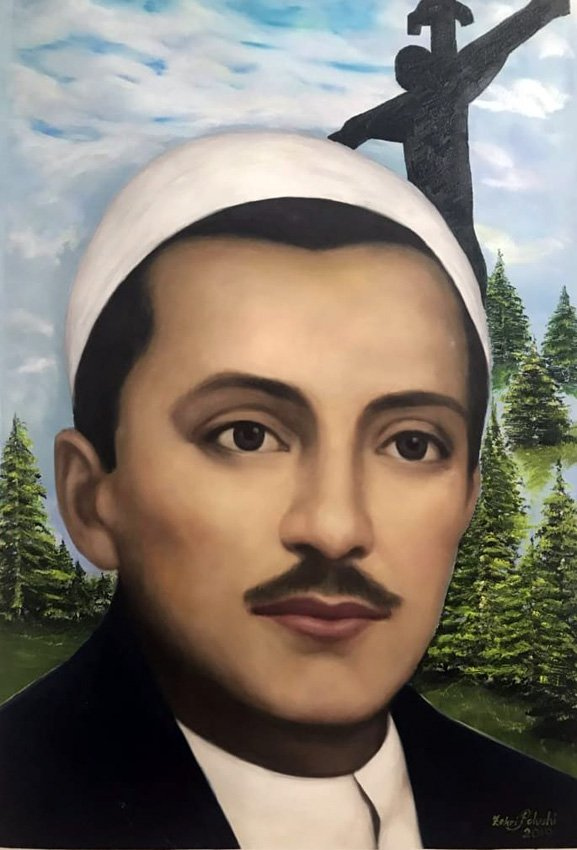
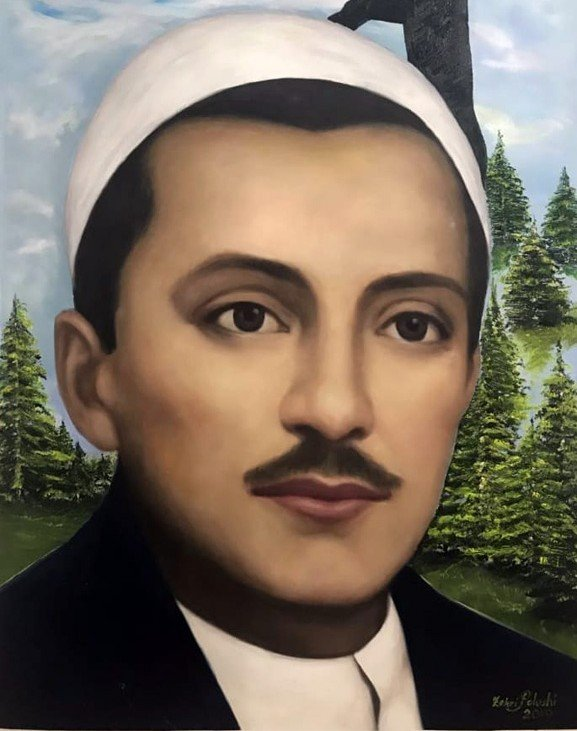
Fran Mirakaj (198): foto recortada, centrada en el rostro (#70)
Claude-Session: https://claude.ai/code/session_013jQWy2jms2utjr6qbVvrZF

diff --git a/fr/m/198/index.html b/fr/m/198/index.html
@@ -14,7 +14,7 @@
 <meta property="og:description" content="Commerçant">
 <meta property="og:image" content="https://santidadmatrimonial.org/img/198.jpg">
 <meta property="og:image:width" content="577">
-<meta property="og:image:height" content="850">
+<meta property="og:image:height" content="731">
 <meta property="og:image:alt" content="Fran Mirakaj et Prenda Alija Kamerin">
 <meta name="twitter:card" content="summary_large_image">
 <link rel="icon" href="../../../favicon.svg" type="image/svg+xml">
@@ -22,7 +22,7 @@
 <style>body{font-family:system-ui,sans-serif;max-width:520px;margin:40px auto;padding:0 16px;text-align:center;color:#2b2b2b}img{max-width:100%;border-radius:12px}a{color:#26467a;font-weight:700}</style>
 </head>
 <body>
-<img src="https://santidadmatrimonial.org/img/198.jpg" alt="Fran Mirakaj et Prenda Alija Kamerin" width="577" height="850">
+<img src="https://santidadmatrimonial.org/img/198.jpg" alt="Fran Mirakaj et Prenda Alija Kamerin" width="577" height="731">
 <h1>Bienheureux Fran Mirakaj et Prenda Alija Kamerin</h1>
 <p>Commerçant</p>
 <p><a href="../../#m198">Voir la fiche</a></p>

diff --git a/en/m/198/index.html b/en/m/198/index.html
@@ -14,7 +14,7 @@
 <meta property="og:description" content="Merchant">
 <meta property="og:image" content="https://santidadmatrimonial.org/img/198.jpg">
 <meta property="og:image:width" content="577">
-<meta property="og:image:height" content="850">
+<meta property="og:image:height" content="731">
 <meta property="og:image:alt" content="Fran Mirakaj &amp; Prenda Alija Kamerin">
 <meta name="twitter:card" content="summary_large_image">
 <link rel="icon" href="../../../favicon.svg" type="image/svg+xml">
@@ -22,7 +22,7 @@
 <style>body{font-family:system-ui,sans-serif;max-width:520px;margin:40px auto;padding:0 16px;text-align:center;color:#2b2b2b}img{max-width:100%;border-radius:12px}a{color:#26467a;font-weight:700}</style>
 </head>
 <body>
-<img src="https://santidadmatrimonial.org/img/198.jpg" alt="Fran Mirakaj &amp; Prenda Alija Kamerin" width="577" height="850">
+<img src="https://santidadmatrimonial.org/img/198.jpg" alt="Fran Mirakaj &amp; Prenda Alija Kamerin" width="577" height="731">
 <h1>Bl. Fran Mirakaj &amp; Prenda Alija Kamerin</h1>
 <p>Merchant</p>
 <p><a href="../../#m198">See the couple</a></p>

diff --git a/it/m/198/index.html b/it/m/198/index.html
@@ -14,7 +14,7 @@
 <meta property="og:description" content="Commerciante">
 <meta property="og:image" content="https://santidadmatrimonial.org/img/198.jpg">
 <meta property="og:image:width" content="577">
-<meta property="og:image:height" content="850">
+<meta property="og:image:height" content="731">
 <meta property="og:image:alt" content="Fran Mirakaj e Prenda Alija Kamerin">
 <meta name="twitter:card" content="summary_large_image">
 <link rel="icon" href="../../../favicon.svg" type="image/svg+xml">
@@ -22,7 +22,7 @@
 <style>body{font-family:system-ui,sans-serif;max-width:520px;margin:40px auto;padding:0 16px;text-align:center;color:#2b2b2b}img{max-width:100%;border-radius:12px}a{color:#26467a;font-weight:700}</style>
 </head>
 <body>
-<img src="https://santidadmatrimonial.org/img/198.jpg" alt="Fran Mirakaj e Prenda Alija Kamerin" width="577" height="850">
+<img src="https://santidadmatrimonial.org/img/198.jpg" alt="Fran Mirakaj e Prenda Alija Kamerin" width="577" height="731">
 <h1>Beato Fran Mirakaj e Prenda Alija Kamerin</h1>
 <p>Commerciante</p>
 <p><a href="../../#m198">Vedi la scheda</a></p>

diff --git a/pt/m/198/index.html b/pt/m/198/index.html
@@ -14,7 +14,7 @@
 <meta property="og:description" content="Comerciante">
 <meta property="og:image" content="https://santidadmatrimonial.org/img/198.jpg">
 <meta property="og:image:width" content="577">
-<meta property="og:image:height" content="850">
+<meta property="og:image:height" content="731">
 <meta property="og:image:alt" content="Fran Mirakaj e Prenda Alija Kamerin">
 <meta name="twitter:card" content="summary_large_image">
 <link rel="icon" href="../../../favicon.svg" type="image/svg+xml">
@@ -22,7 +22,7 @@
 <style>body{font-family:system-ui,sans-serif;max-width:520px;margin:40px auto;padding:0 16px;text-align:center;color:#2b2b2b}img{max-width:100%;border-radius:12px}a{color:#26467a;font-weight:700}</style>
 </head>
 <body>
-<img src="https://santidadmatrimonial.org/img/198.jpg" alt="Fran Mirakaj e Prenda Alija Kamerin" width="577" height="850">
+<img src="https://santidadmatrimonial.org/img/198.jpg" alt="Fran Mirakaj e Prenda Alija Kamerin" width="577" height="731">
 <h1>Beato Fran Mirakaj e Prenda Alija Kamerin</h1>
 <p>Comerciante</p>
 <p><a href="../../#m198">Ver a ficha</a></p>

diff --git a/m/198/index.html b/m/198/index.html
@@ -14,7 +14,7 @@
 <meta property="og:description" content="Comerciante">
 <meta property="og:image" content="https://santidadmatrimonial.org/img/198.jpg">
 <meta property="og:image:width" content="577">
-<meta property="og:image:height" content="850">
+<meta property="og:image:height" content="731">
 <meta property="og:image:alt" content="Fran Mirakaj y Prenda Alija Kamerin">
 <meta name="twitter:card" content="summary_large_image">
 <link rel="icon" href="../../favicon.svg" type="image/svg+xml">
@@ -22,7 +22,7 @@
 <style>body{font-family:system-ui,sans-serif;max-width:520px;margin:40px auto;padding:0 16px;text-align:center;color:#2b2b2b}img{max-width:100%;border-radius:12px}a{color:#26467a;font-weight:700}</style>
 </head>
 <body>
-<img src="https://santidadmatrimonial.org/img/198.jpg" alt="Fran Mirakaj y Prenda Alija Kamerin" width="577" height="850">
+<img src="https://santidadmatrimonial.org/img/198.jpg" alt="Fran Mirakaj y Prenda Alija Kamerin" width="577" height="731">
 <h1>B. Fran Mirakaj y Prenda Alija Kamerin</h1>
 <p>Comerciante</p>
 <p><a href="../../#m198">Ver la ficha</a></p>

diff --git a/app.js b/app.js
@@ -587,7 +587,7 @@
   }
 
   // Change DATOS_V whenever data/*.json changes, so browsers don't keep the cached copy.
-  var DATOS_V = "2026-11-27-126";
+  var DATOS_V = "2026-11-27-198b";
   function leer(url) { return fetch(BASE + url + "?v=" + DATOS_V).then(function (r) { return r.json(); }); }
   var listo = Promise.all([leer("data/matrimonios.json"), TR.datos ? leer(TR.datos).catch(function () { return {}; }) : null])
     .then(function (r) { iniciar(r[1] ? traducir(r[0], r[1]) : r[0]); });

diff --git a/en/index.html b/en/index.html
@@ -314,7 +314,7 @@
   <div class="wrap">Caminos de Santidad Matrimonial</div>
 </footer>
 <script src="../i18n-en.js?v=2026-11-27-compartir"></script>
-<script src="../app.js?v=2026-11-27-126"></script>
+<script src="../app.js?v=2026-11-27-198b"></script>
 <script data-goatcounter="https://lcozzi.goatcounter.com/count" async src="//gc.zgo.at/count.js"></script>
 </body>
 </html>

diff --git a/fr/index.html b/fr/index.html
@@ -314,7 +314,7 @@
   <div class="wrap">Caminos de Santidad Matrimonial</div>
 </footer>
 <script src="../i18n-fr.js?v=2026-11-27-compartir"></script>
-<script src="../app.js?v=2026-11-27-126"></script>
+<script src="../app.js?v=2026-11-27-198b"></script>
 <script data-goatcounter="https://lcozzi.goatcounter.com/count" async src="//gc.zgo.at/count.js"></script>
 </body>
 </html>

diff --git a/it/index.html b/it/index.html
@@ -314,7 +314,7 @@
   <div class="wrap">Caminos de Santidad Matrimonial</div>
 </footer>
 <script src="../i18n-it.js?v=2026-11-27-compartir"></script>
-<script src="../app.js?v=2026-11-27-126"></script>
+<script src="../app.js?v=2026-11-27-198b"></script>
 <script data-goatcounter="https://lcozzi.goatcounter.com/count" async src="//gc.zgo.at/count.js"></script>
 </body>
 </html>

diff --git a/pt/index.html b/pt/index.html
@@ -314,7 +314,7 @@
   <div class="wrap">Caminos de Santidad Matrimonial</div>
 </footer>
 <script src="../i18n-pt.js?v=2026-11-27-compartir"></script>
-<script src="../app.js?v=2026-11-27-126"></script>
+<script src="../app.js?v=2026-11-27-198b"></script>
 <script data-goatcounter="https://lcozzi.goatcounter.com/count" async src="//gc.zgo.at/count.js"></script>
 </body>
 </html>

diff --git a/index.html b/index.html
@@ -313,7 +313,7 @@
 <footer class="pie">
   <div class="wrap">Caminos de Santidad Matrimonial</div>
 </footer>
-<script src="app.js?v=2026-11-27-126"></script>
+<script src="app.js?v=2026-11-27-198b"></script>
 <script data-goatcounter="https://lcozzi.goatcounter.com/count" async src="//gc.zgo.at/count.js"></script>
 </body>
 </html>
